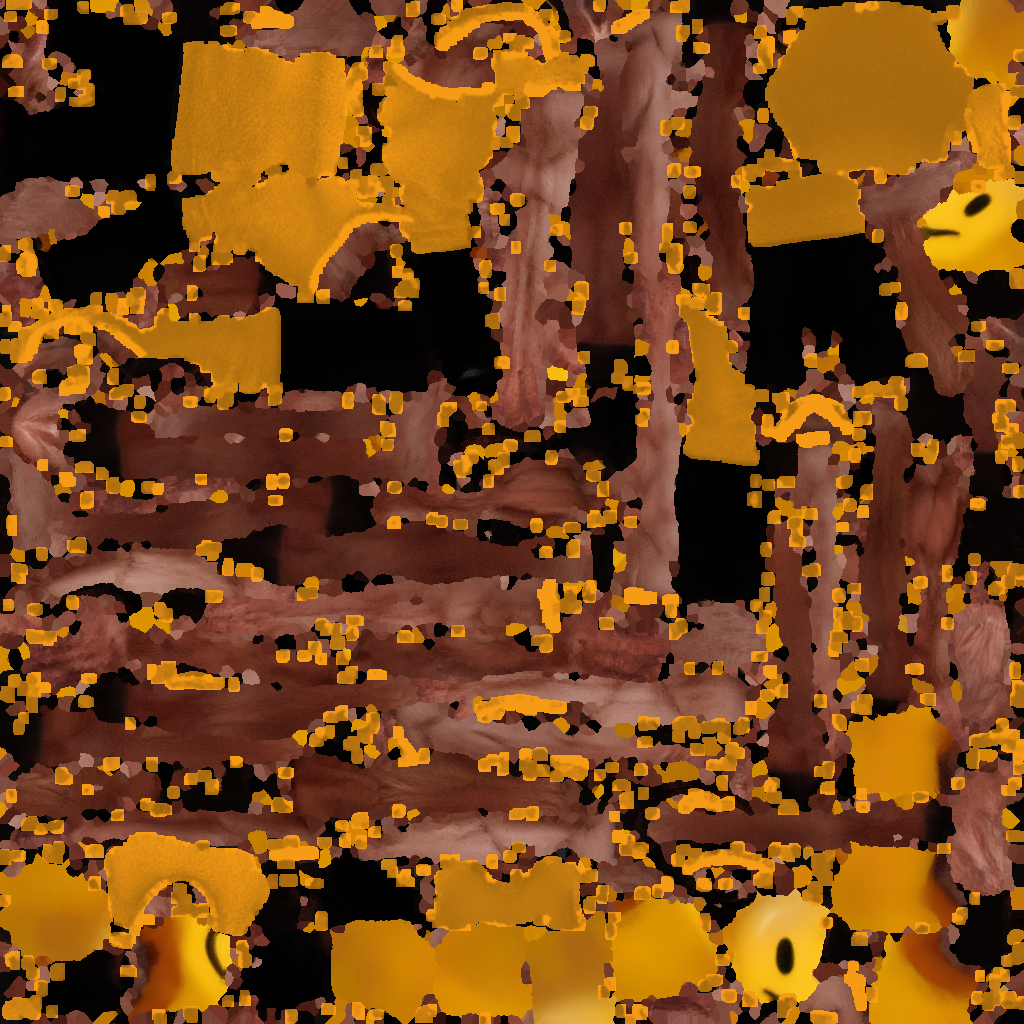
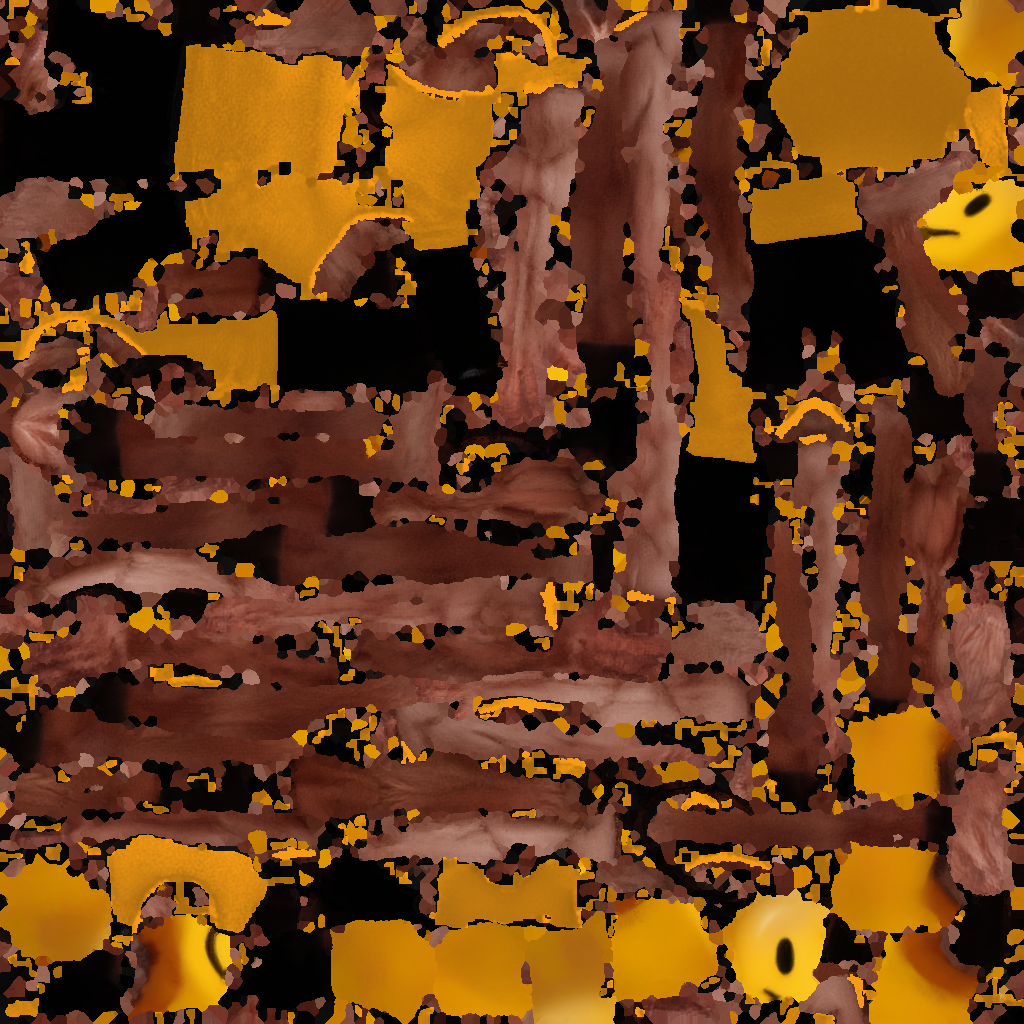
Keep the shirt paint on the shirt and the stripe out in front
Growing the shirt mask nine texels across the atlas painted skin: the shirt
colour turned up on the arms, the neck and the face. The mask is back to its
three texels, the trim is closed instead of dilated, and only dark cloth is
taken from that ring. The two hundred sliver islands the UV set carries were
painted body triangles, which is where the specks of shirt colour came from;
islands under sixty-four texels are now dropped.

The side stripe sat within a few degrees of the lateral, where it is edge on
from every camera that is not square to the side and read as a stripe at the
back. It is now fifty-five degrees forward, so a front view shows it, and it
is lifted by the sag of the cloth chord it is sampled from, which is what let
the calf swallow it and leave it looking cut off halfway down.

diff --git a/GymChaos/Assets/Editor/GymChaosTopsVerifier.cs b/GymChaos/Assets/Editor/GymChaosTopsVerifier.cs
@@ -901,21 +901,33 @@ public sealed class GymChaosTopsVerifierRunner : MonoBehaviour
                 rightOut = Mathf.Max(rightOut, v[i].x);
                 rightCount++;
             }
-            int nearest = -1;
-            float best = float.MaxValue;
+            // The three nearest cloth vertices: at the seat's edge the stripe's
+            // nearest could be a seat vertex rather than the leg it hangs on,
+            // and the stripe has to match at least the cloth right under it.
+            int[] near = { -1, -1, -1 };
+            float[] nearDistance = { float.MaxValue, float.MaxValue, float.MaxValue };
             for (int j = 0; j < v.Length; j++)
             {
                 if (isStripe[j]) continue;
                 float d = (v[j] - v[i]).sqrMagnitude;
-                if (d < best) { best = d; nearest = j; }
+                if (d >= nearDistance[2]) continue;
+                if (d < nearDistance[0]) { near[2] = near[1]; nearDistance[2] = nearDistance[1]; near[1] = near[0]; nearDistance[1] = nearDistance[0]; near[0] = j; nearDistance[0] = d; }
+                else if (d < nearDistance[1]) { near[2] = near[1]; nearDistance[2] = nearDistance[1]; near[1] = j; nearDistance[1] = d; }
+                else { near[2] = j; nearDistance[2] = d; }
             }
-            Require(nearest >= 0, "pants: no cloth under a stripe vertex");
-            drift = Mathf.Max(drift,
-                Mathf.Abs(weights[i].weight0 - weights[nearest].weight0) +
-                Mathf.Abs(weights[i].weight1 - weights[nearest].weight1) +
-                Mathf.Abs(weights[i].weight2 - weights[nearest].weight2) +
-                Mathf.Abs(weights[i].weight3 - weights[nearest].weight3) +
-                (weights[i].boneIndex0 != weights[nearest].boneIndex0 ? 1f : 0f));
+            Require(near[0] >= 0, "pants: no cloth under a stripe vertex");
+            float closest = float.MaxValue;
+            for (int k = 0; k < 3; k++)
+            {
+                if (near[k] < 0) continue;
+                closest = Mathf.Min(closest,
+                    Mathf.Abs(weights[i].weight0 - weights[near[k]].weight0) +
+                    Mathf.Abs(weights[i].weight1 - weights[near[k]].weight1) +
+                    Mathf.Abs(weights[i].weight2 - weights[near[k]].weight2) +
+                    Mathf.Abs(weights[i].weight3 - weights[near[k]].weight3) +
+                    (weights[i].boneIndex0 != weights[near[k]].boneIndex0 ? 1f : 0f));
+            }
+            drift = Mathf.Max(drift, closest);
         }
         Require(leftCount > 0 && rightCount > 0, $"pants: stripes on one leg only ({leftCount}/{rightCount})");
         Require(drift < 0.02f, $"pants: a stripe is not skinned with the leg under it (drift {drift:F3})");
@@ -942,12 +954,18 @@ public sealed class GymChaosTopsVerifierRunner : MonoBehaviour
                 if (!isStripe[i] || v[i].x < 0f) continue;
                 outward += v[i] - axis;
             }
-            outward.y = 0f;
-            if (outward.sqrMagnitude > 1e-9f)
+            // Measured in the player's world frame: the mesh's own axes are not
+            // the transform's, so a local reading here means nothing.
+            Vector3 centre = shell.transform.TransformPoint(axis);
+            Vector3 seam = shell.transform.TransformPoint(axis + outward / Mathf.Max(1, 1f));
+            Vector3 offset = seam - centre;
+            offset.y = 0f;
+            if (offset.sqrMagnitude > 1e-9f)
             {
-                outward.Normalize();
-                float fromRight = Vector3.SignedAngle(shell.transform.right, outward, Vector3.up);
-                notes.Add($"pantsStripeAngle {fromRight:F0}deg from right");
+                offset.Normalize();
+                float fromRight = Vector3.SignedAngle(shell.transform.right, offset, Vector3.up);
+                float fromFront = Vector3.SignedAngle(shell.transform.forward, offset, Vector3.up);
+                notes.Add($"pantsStripeAngle {fromRight:F0}deg from right {fromFront:F0}deg from front");
             }
         }
         notes.Add($"pantsStripeFit verts={leftCount}/{rightCount} hem={leftLow:F4}/{rightLow:F4} drift={drift:F3}");

diff --git a/GymChaos/Assets/Scripts/PlayerTopShell.cs b/GymChaos/Assets/Scripts/PlayerTopShell.cs
@@ -1673,7 +1673,7 @@ public static class PlayerTopShell
     private const float FabricTile = 0.06f;
     private const float Clearance = 0.002f;
     // Side stripes sit this far off the leg's own cloth (rest units).
-    private const float StripeLift = 0.0006f;
+    private const float StripeLift = 0.0012f;
     // The seat needs more room than a leg tube: the scan's old shorts rim is a
     // raised lip, and at 3 mm it poked through as small dark holes on the hips.
     private const float SeatClearance = 0.008f;
@@ -1872,7 +1872,13 @@ public static class PlayerTopShell
             // which is printed in ink: white on every colour of trousers and
             // black on the white pair.
             Vector2 outward = axis[leg] - pelvis;
-            float seamAngle = Mathf.Atan2(outward.y, outward.x);
+            outward.Normalize();
+            // A third of the way from the side towards the front: on the true
+            // lateral it is edge on from every camera that is not square to the
+            // side, which read as a stripe at the back. This sits on the side
+            // seam and still faces the player's front.
+            Vector2 seamDir = (outward + new Vector2(0f, frontSign) * 1.45f).normalized;
+            float seamAngle = Mathf.Atan2(seamDir.y, seamDir.x);
             float seamColumn = (seamAngle < 0f ? seamAngle + Mathf.PI * 2f : seamAngle) / (Mathf.PI * 2f) * LegSides;
             int stripeStart = stripePts.Count;
             for (int r = 0; r < legRings; r++)
@@ -1889,7 +1895,13 @@ public static class PlayerTopShell
                     Vector3 cloth = Vector3.Lerp(verts[stripeRow + stripeColumn],
                         verts[stripeRow + (stripeColumn + 1) % LegSides], wrapped - stripeColumn);
                     Vector3 radial = cloth - Point(z, axis[leg]);
-                    stripePts.Add(radial.sqrMagnitude > 1e-12f ? cloth + radial.normalized * StripeLift : cloth);
+                    // The cloth sample is a chord between two ring columns, so it
+                    // sits inside the curved surface by the sag of that chord.
+                    // Lifting only a fraction of a millimetre let the stripe sink
+                    // into the leg over the calf and the hem flare, which read as
+                    // a stripe cut off halfway down.
+                    float sag = radial.magnitude * (1f - Mathf.Cos(Mathf.PI / LegSides));
+                    stripePts.Add(radial.sqrMagnitude > 1e-12f ? cloth + radial.normalized * (StripeLift + sag) : cloth);
                     stripeUv.Add(new Vector2(k / 2f * 2f / FabricTile, z / FabricTile));
                 }
             }

diff --git a/Tools/build_player_shirt_colors.py b/Tools/build_player_shirt_colors.py
@@ -18,12 +18,31 @@ mask = np.zeros((h, w), np.uint8)
 for tri in json.loads(Path('.tools/shirt-uv.json').read_text()):
     pts = np.array([[round(u * (w - 1)), round((1 - v) * (h - 1))] for u, v in tri], np.int32)
     cv2.fillConvexPoly(mask, pts, 255)
-# Grown well past the shirt's islands: the tank's trim and seam lines sit a
-# few texels outside them, and left unpainted they show as bitten edges in
-# every colour but black (white showed them worst).
-mask = cv2.dilate(mask, np.ones((9, 9), np.uint8)) > 0
+# One texel past the islands, as before.
+mask = cv2.dilate(mask, np.ones((3, 3), np.uint8)) > 0
 f = im.astype(np.float32) / 255.
 lum = f.mean(2)
+# The tank's trim and seam lines sit a texel or two outside its islands and
+# read as bitten edges. Closing the mask fills those gaps without growing it
+# out over the body, and the filled texels must be dark cloth as well: a blind
+# grow painted the arms, the neck and the face with the shirt colour.
+filled = cv2.morphologyEx(mask.astype(np.uint8) * 255, cv2.MORPH_CLOSE, np.ones((9, 9), np.uint8)) > 127
+mask = mask | (filled & (lum < 0.12))
+print('PAINT_MASK', int(mask.sum()), 'filled_texels', int((filled & ~mask).sum()))
+# The UV set also carries a couple of hundred sliver islands of a few texels
+# each, which map body triangles onto the shirt's area: painted, they show as
+# specks of shirt colour on the arms and the face. Only real garment islands
+# stay.
+componentCount, labels, stats, _ = cv2.connectedComponentsWithStats(mask.astype(np.uint8), 8)
+keepMask = np.zeros_like(mask)
+slivers = 0
+for i in range(1, componentCount):
+    if stats[i, cv2.CC_STAT_AREA] < 64:
+        slivers += 1
+        continue
+    keepMask |= labels == i
+mask = keepMask
+print('PAINT_DROPPED_SLIVERS', slivers, 'islands', componentCount - 1 - slivers)
 # Cloth sits around 0.02-0.08: map it to a gentle 0.62-1.05 shading range.
 shade = np.clip(0.62 + np.clip(lum / 0.08, 0, 1) * 0.43, 0.62, 1.05)
 shade = cv2.GaussianBlur(shade.astype(np.float32), (3, 3), 0)
@@ -33,4 +52,7 @@ for name, color in dict(White=[.9, .92, .9], Red=[.72, .045, .025], Blue=[.035, 
     result[mask] = (shade[:, :, None] * np.array(color))[mask]
     Image.fromarray(np.uint8(np.clip(result, 0, 1) * 255)).save(out / ('shirt_' + name.lower() + '.png'))
 Image.fromarray(np.uint8(mask) * 255).save('.tools/shirt-mask.png')
+# Skin next to a seam must not take the shirt colour: this is what the grown
+# ring would look like unguarded, and it has to stay near zero.
+print('PAINT_SKIN_LEAK', int(((lum > 0.15) & mask).sum()))
 print('RECOLORED_PIXELS', int(mask.sum()), 'total', w * h)
